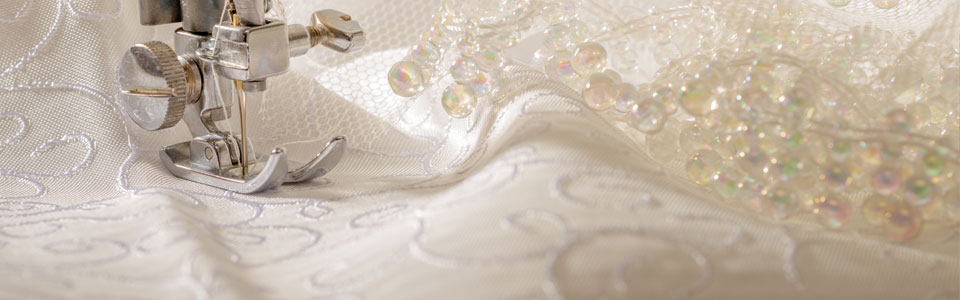
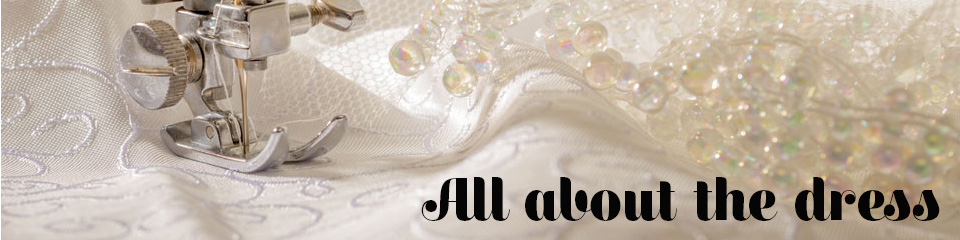
editing

diff --git a/Attire.html b/Attire.html
@@ -28,17 +28,10 @@
   </ul>
 <hr>
 
-<div class="subheadings">
-  <img src="Images/All about the dress.png" alt="Subheading: All about the dress">
-</div>
-
 <div class= 'wrapper'>
 <div id= jumbotron-attire class='jumbotron'>
   <div class='container'>
     <div class="row">
-      <div class="attire-jumbotron-text">
-        <p> If you're feeling so much pressure to find the wedding dress of your dreams that you think you may be going nuts, don't worry. We are here to help choose the perfect dress for you!</p>
-      </div> <!-- attire-jumbotron-text-->
     </div><!-- .row -->
   </div><!-- .container -->
 </div><!-- .jumbotron -->

diff --git a/style.css b/style.css
@@ -86,7 +86,7 @@ hr {
     min-height: 300px;
     margin-bottom: 0;
     background-image: url('Images/Sewing-background-image.jpg');
-    background-size: cover;
+    background-size: contain;
     }
 
   .container {
@@ -120,13 +120,6 @@ ul.address li{
 	display: list-item;
   text-decoration: none;
   text-align: left;
-  margin-bottom: 10px;
-  font-size: 21px;
-  font-weight: 200;
-}
-
-.attire-jumbotron-text {
-  text-align: right;
   margin-bottom: 10px;
   font-size: 21px;
   font-weight: 200;
